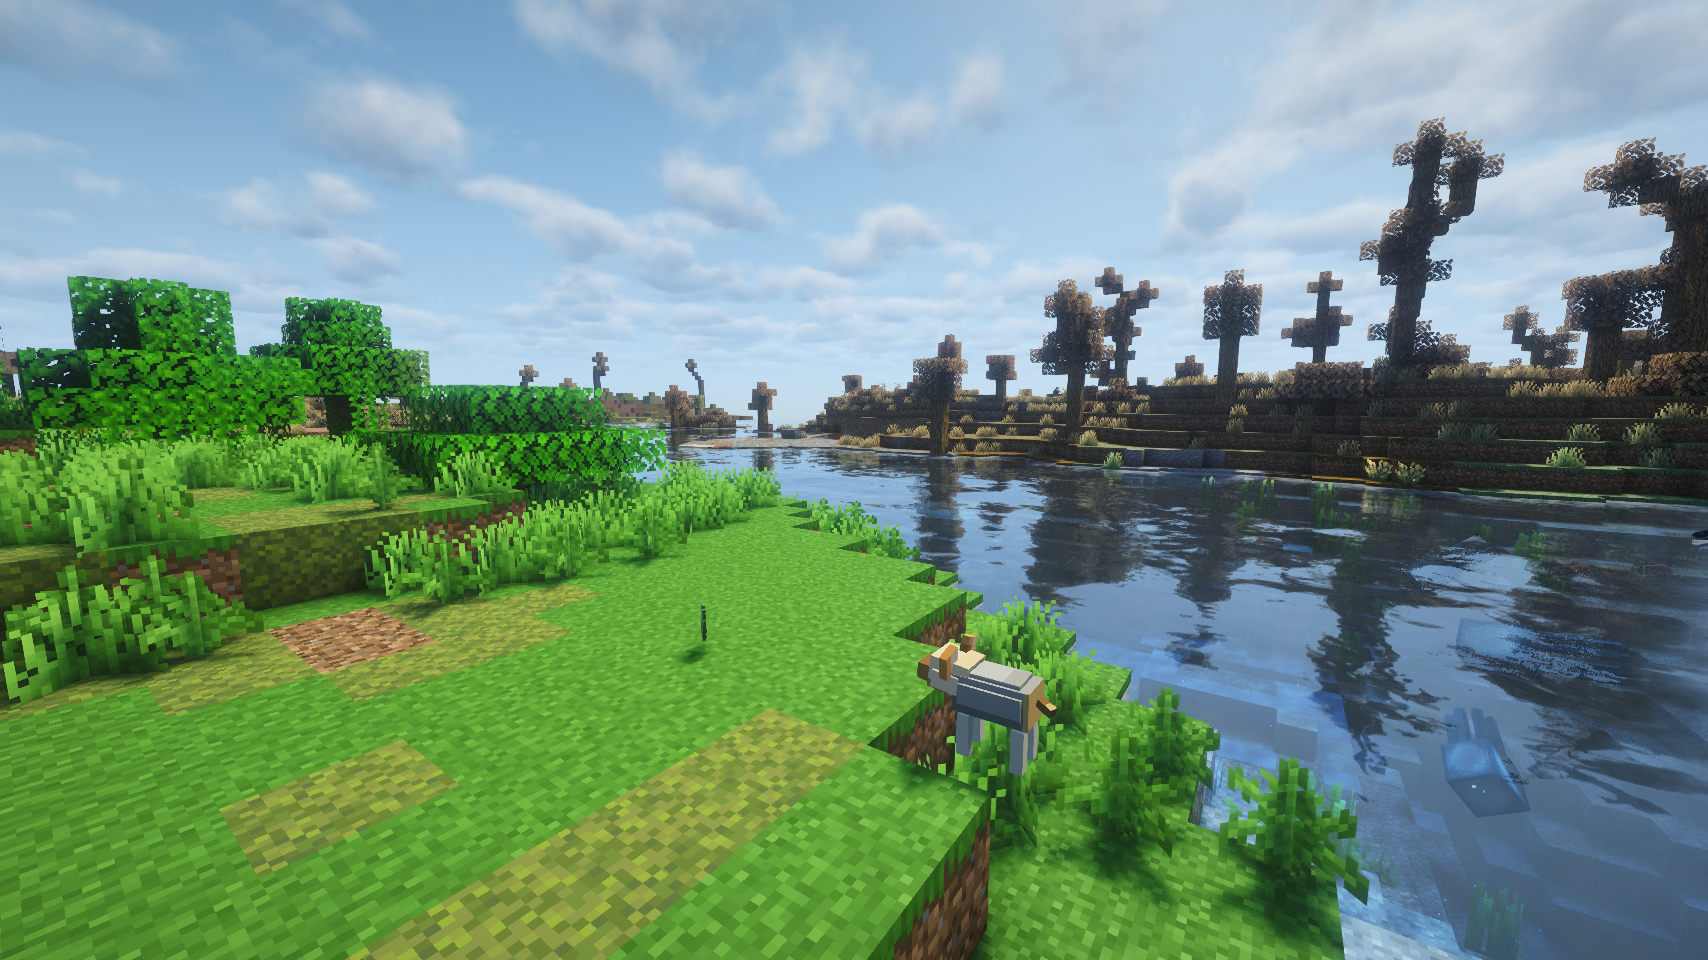
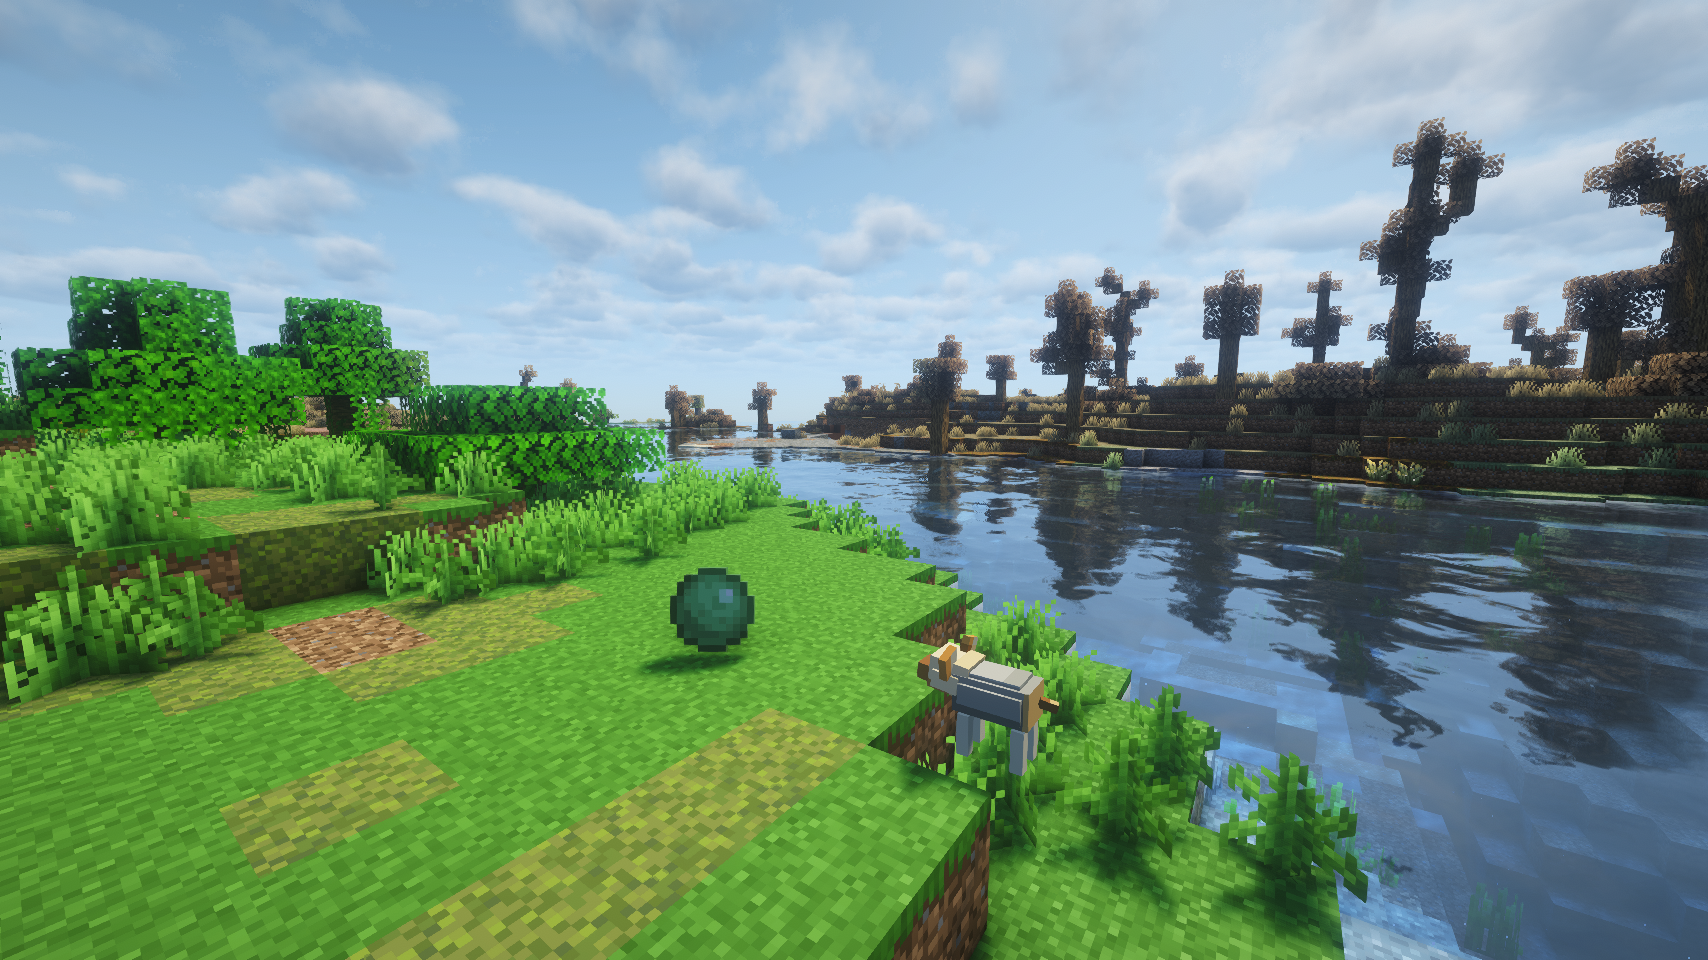
Fix Yorkie gallery staging details

diff --git a/tools/playtest-harness/src/bridge-cli.js b/tools/playtest-harness/src/bridge-cli.js
@@ -2073,6 +2073,25 @@ async function runYorkieNaturalGallery(baseUrl, args) {
     }
   }
 
+  async function clearStagedBlocks(center, horizontal = 18) {
+    const x1 = Math.floor(center.x - horizontal);
+    const y1 = Math.floor(center.y - 4);
+    const z1 = Math.floor(center.z - horizontal);
+    const x2 = Math.floor(center.x + horizontal);
+    const y2 = Math.floor(center.y + 8);
+    const z2 = Math.floor(center.z + horizontal);
+    for (const block of [
+      'minecraft:birch_fence',
+      'minecraft:oak_fence',
+      'mushroom_yorkie:dog_bed',
+      'mushroom_yorkie:dog_food_bowl',
+      'mushroom_yorkie:dog_water_bowl'
+    ]) {
+      await command(`fill ${x1} ${y1} ${z1} ${x2} ${y2} ${z2} minecraft:air replace ${block}`);
+    }
+    await command(`fill ${x1} ${y1} ${z1} ${x2} ${y2} ${z2} minecraft:grass_block replace minecraft:dirt_path`);
+  }
+
   async function prepScene(name, location) {
     return step(`prepare ${name}`, async () => {
       await command('time set noon');
@@ -2103,6 +2122,7 @@ async function runYorkieNaturalGallery(baseUrl, args) {
         await clearEntities(type);
       }
       await cleanArea(center);
+      await clearStagedBlocks(center);
       return center;
     });
   }
@@ -2172,6 +2192,28 @@ async function runYorkieNaturalGallery(baseUrl, args) {
     return setAbsoluteBlock({ x: target.x, y: target.y, z: target.z }, block);
   }
 
+  async function clearPropColumn(surface) {
+    await setAbsoluteBlock({ x: surface.x, y: surface.y, z: surface.z }, 'minecraft:air');
+    await setAbsoluteBlock({ x: surface.x, y: surface.y + 1, z: surface.z }, 'minecraft:air');
+  }
+
+  async function prepareFlatPropPatch(surface, horizontal = 2) {
+    const prepared = [];
+    for (let dx = -horizontal; dx <= horizontal; dx += 1) {
+      for (let dz = -horizontal; dz <= horizontal; dz += 1) {
+        const x = surface.x + dx;
+        const z = surface.z + dz;
+        await setAbsoluteBlock({ x, y: surface.y - 1, z }, 'minecraft:dirt_path');
+        await setAbsoluteBlock({ x, y: surface.y, z }, 'minecraft:air');
+        await setAbsoluteBlock({ x, y: surface.y + 1, z }, 'minecraft:air');
+        await setAbsoluteBlock({ x, y: surface.y + 2, z }, 'minecraft:air');
+        prepared.push({ x, y: surface.y, z });
+      }
+    }
+    await clearFoliage(surface, horizontal + 2, 4);
+    return prepared;
+  }
+
   const initialState = await requestJson(baseUrl, '/state');
   const playerName = singlePlayerName(initialState);
   const screenshots = {};
@@ -2203,15 +2245,17 @@ async function runYorkieNaturalGallery(baseUrl, args) {
   screenshots.leashed = await step('capture natural leashed walk', async () => {
     const land = await findSurfaceNear(center, isLand, 14);
     await clearFoliage(land, 5, 4);
-    const camera = { x: land.x - 2.3, y: land.y + 0.95, z: land.z - 3.4 };
+    const camera = { x: land.x - 2.8, y: land.y + 1.05, z: land.z - 3.9 };
     await clearFoliage({ x: camera.x, y: land.y, z: camera.z }, 2, 4);
-    const fence = { x: land.x + 1, y: land.y, z: land.z + 1 };
-    const fenceNeighbor = { x: land.x + 1, y: land.y, z: land.z + 2 };
-    await setAbsoluteBlock(fence, 'minecraft:oak_fence');
-    await setAbsoluteBlock(fenceNeighbor, 'minecraft:oak_fence');
-    const yorkie = await summonYorkie({ x: land.x + 0.3, y: land.y, z: land.z + 0.65 }, { noAi: true, harness: true, yaw: 160 });
+    const fence = { x: land.x - 1, y: land.y, z: land.z };
+    const fenceTop = { x: fence.x, y: fence.y + 1, z: fence.z };
+    const fenceNeighbor = { x: land.x - 1, y: land.y, z: land.z + 1 };
+    await setAbsoluteBlock(fence, 'minecraft:birch_fence');
+    await setAbsoluteBlock(fenceTop, 'minecraft:birch_fence');
+    await setAbsoluteBlock(fenceNeighbor, 'minecraft:birch_fence');
+    const yorkie = await summonYorkie({ x: land.x + 0.65, y: land.y, z: land.z + 0.65 }, { noAi: true, harness: true, yaw: 220 });
     await checkedCommand(`gamemode creative ${playerName}`);
-    await checkedCommand(`tp ${playerName} ${land.x + 1.9} ${land.y} ${land.z - 0.8} facing ${land.x - 0.5} ${land.y + 0.3} ${land.z + 0.5}`);
+    await checkedCommand(`tp ${playerName} ${land.x - 0.3} ${land.y} ${land.z - 1.4} facing ${land.x + 0.6} ${land.y + 0.3} ${land.z + 0.6}`);
     const lead = await useYorkie({ item: 'minecraft:lead', count: 1 });
     requireCondition(lead.target.leash && lead.target.leash.leashed, 'Leash did not attach for natural gallery scene');
     const tied = await useBlock({
@@ -2231,7 +2275,7 @@ async function runYorkieNaturalGallery(baseUrl, args) {
       file: await cameraShot(
         'leashed-walk',
         camera,
-        { x: land.x + 0.75, y: land.y + 0.35, z: land.z + 0.75 }
+        { x: land.x - 0.05, y: land.y + 0.55, z: land.z + 0.55 }
       )
     };
   });
@@ -2241,9 +2285,14 @@ async function runYorkieNaturalGallery(baseUrl, args) {
     const water = await findSurfaceNear(center, isWater, 16);
     const camera = { x: water.x - 2.4, y: water.y + 0.85, z: water.z - 3.7 };
     const yorkie = await summonYorkie({ x: water.x + 0.5, y: water.y + 0.05, z: water.z + 0.5 }, {
+      noAi: true,
       yaw: 185,
       needs: '{Hunger:10,Potty:10,Mood:90,Energy:80}'
     });
+    await poseYorkie(
+      { x: water.x + 0.5, y: water.y + 0.05, z: water.z + 0.5 },
+      { x: camera.x, y: camera.y, z: camera.z }
+    );
     await sleep(900);
     return {
       water,
@@ -2268,7 +2317,8 @@ async function runYorkieNaturalGallery(baseUrl, args) {
       yaw: 95,
       needs: '{Hunger:0,Potty:0,Mood:65,Energy:85}'
     });
-    await command(`summon item ${land.x + 2.4} ${land.y + 0.4} ${land.z + 0.5} {Item:{id:"mushroom_yorkie:yorkie_ball",count:1}}`);
+    await command(`summon item ${land.x + 2.4} ${land.y + 0.25} ${land.z + 0.5} {NoGravity:1b,PickupDelay:32767,Age:-32768,Item:{id:"mushroom_yorkie:yorkie_ball",count:1}}`);
+    await checkedCommand(`summon minecraft:item_display ${land.x + 2.25} ${land.y + 0.48} ${land.z + 0.5} {item:{id:"mushroom_yorkie:yorkie_ball",count:1},item_display:"gui",billboard:"center",transformation:{translation:[0.0f,0.0f,0.0f],scale:[1.15f,1.15f,1.15f],left_rotation:[0.0f,0.0f,0.0f,1.0f],right_rotation:[0.0f,0.0f,0.0f,1.0f]}}`);
     await sleep(1200);
     await checkedCommand(`tp @e[type=${yorkieType},limit=1,sort=nearest] ${land.x - 0.85} ${land.y} ${land.z + 0.45} facing ${land.x + 2.4} ${land.y + 0.35} ${land.z + 0.5}`);
     await freezeEntity(yorkieType);
@@ -2333,23 +2383,25 @@ async function runYorkieNaturalGallery(baseUrl, args) {
   center = await prepScene('natural drinking', locations.lake);
   screenshots.drinking = await step('capture natural drinking', async () => {
     const land = await findSurfaceNear(center, isLand, 14);
-    await clearFoliage(land, 5, 4);
-    const camera = { x: land.x - 2.1, y: land.y + 0.85, z: land.z - 3.2 };
+    await prepareFlatPropPatch(land, 2);
+    await clearFoliage(land, 6, 4);
+    const camera = { x: land.x - 2.2, y: land.y + 0.9, z: land.z - 3.4 };
     await clearFoliage({ x: camera.x, y: land.y, z: camera.z }, 2, 4);
+    await clearPropColumn(land);
     await placeBlockOn(land, 0, 0, 'mushroom_yorkie:dog_water_bowl');
-    await summonYorkie({ x: land.x, y: land.y, z: land.z + 1.35 }, {
+    await summonYorkie({ x: land.x + 0.5, y: land.y, z: land.z + 1.05 }, {
       noAi: true,
       yaw: 180,
       needs: '{Hunger:20,Potty:20,Mood:70,Energy:70,LastWaterBowlDay:-1L}'
     });
-    await checkedCommand(`tp @e[type=${yorkieType},limit=1,sort=nearest] ${land.x} ${land.y} ${land.z + 1.35} facing ${land.x} ${land.y + 0.2} ${land.z}`);
+    await checkedCommand(`tp @e[type=${yorkieType},limit=1,sort=nearest] ${land.x + 0.5} ${land.y} ${land.z + 1.05} facing ${land.x + 0.5} ${land.y + 0.2} ${land.z}`);
     return {
       land,
       yorkie: await waitForEntity(baseUrl, yorkieType, 5000),
       file: await cameraShot(
         'drinking-water-bowl',
         camera,
-        { x: land.x, y: land.y + 0.35, z: land.z + 0.7 }
+        { x: land.x + 0.35, y: land.y + 0.35, z: land.z + 0.55 }
       )
     };
   });
